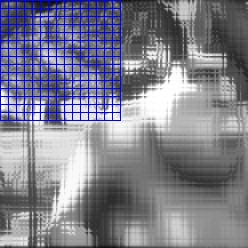
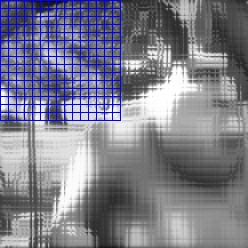
Block upper quadrant

diff --git a/extraction.py b/extraction.py
@@ -95,9 +95,9 @@ def basic_rotations(rot0):
     rot270_c = cvtColor(rot270, COLOR_GRAY2BGR)
     vertical_c = cvtColor(vertical, COLOR_GRAY2BGR)
     horizontal_c = cvtColor(horizontal, COLOR_GRAY2BGR)
-    for x in range(0,16):
-        print range(x,16)
-        for y in range(x,16):
+    for y in range(0,16):
+        print range(y,16)
+        for x in range(y,16):
            rot0_c = rectangle(rot0_c, (x * 8, x * 8), (y * 8, y * 8), (255,0,0), 1)
            rot90_c = rectangle(rot90_c, (x * 8, x* 8), (y * 8,y * 8), (255,0,0), 1)
            rot180_c = rectangle(rot180_c, (x * 8,x * 8), (y * 8,y * 8), (255,0,0), 1)
